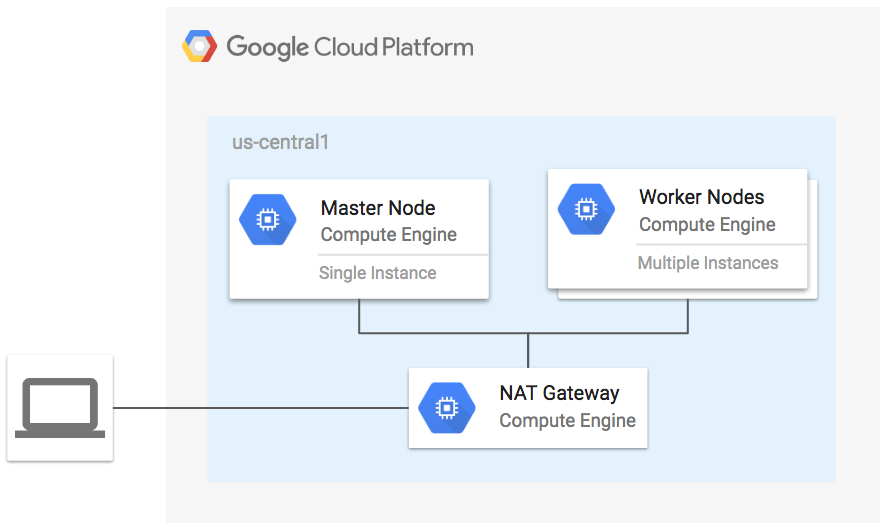
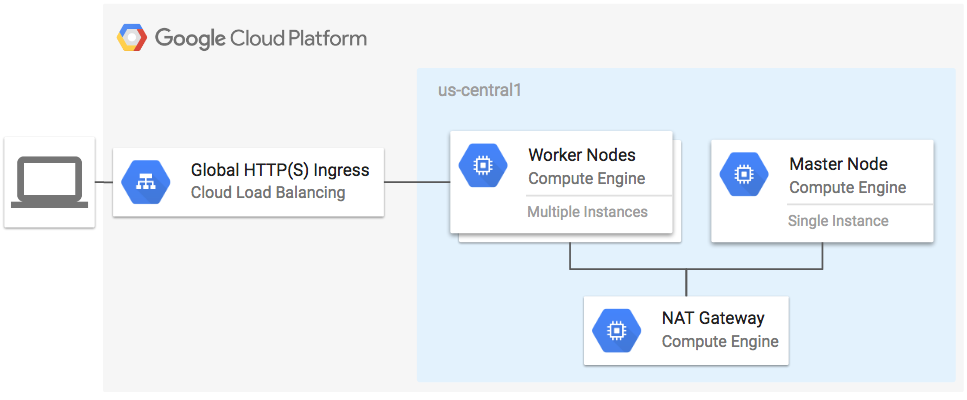
update to readme and diagram

diff --git a/example-k8s-gce/README.md b/example-k8s-gce/README.md
@@ -61,7 +61,19 @@ spec:
 EOF
 ```
 
+Wait a few minutes for the HTTP load balancer to be provisioned then curl the external IP.
+
+```
+curl http://$(kubectl get ing basic-ingress -o jsonpath='{.status.loadBalancer.ingress..ip}')
+```
+
 ## Cleanup
+
+Remove the ingress resource to delete the load balancer which is not cleaned up by Terraform.
+
+```
+kubectl delete ing basic-ingress
+```
 
 Remove all resources created by terraform:
 
